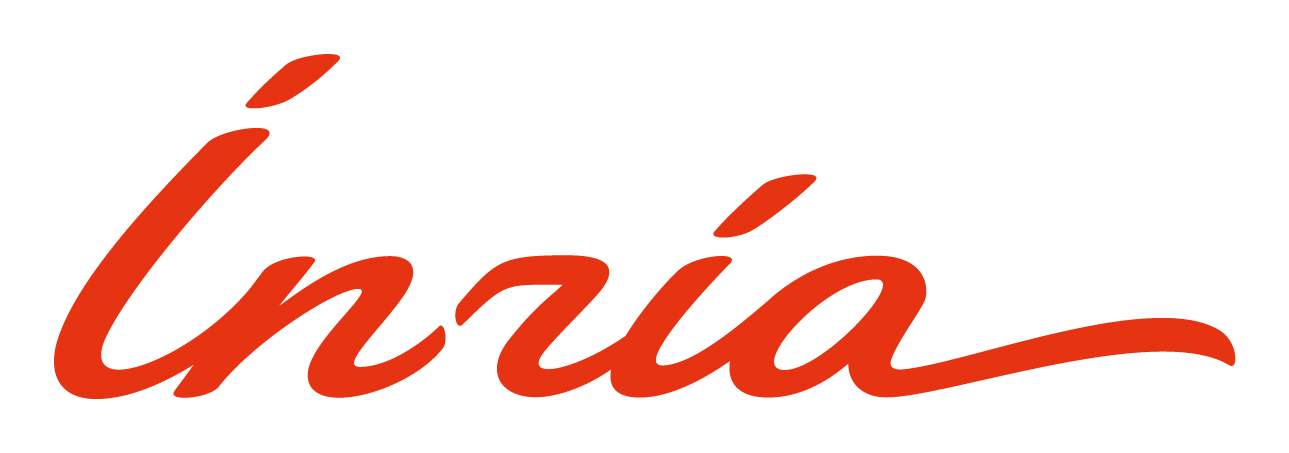
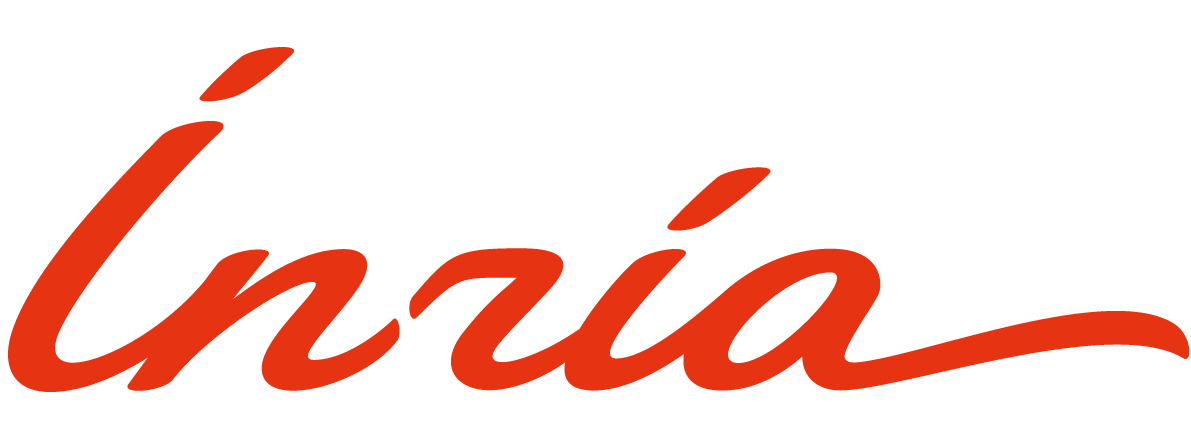
updates

diff --git a/experience.html b/experience.html
@@ -125,7 +125,7 @@
 					  <li class="list-group-item" style="text-align:left"> 
 					  	<div class="row">
 							<div class="4u 12u(mobile)">
-								<span class="image fit"><img src="imgs/inria.jpg" alt="Camilo Aguilar" style="margin-top:10px; margin-left:auto; margin-right:auto; max-height:120px; width:auto" /></span>
+								<span class="image fit"><img src="imgs/inria.jpg" alt="Camilo Aguilar" style="margin-top:10px; margin-left:auto; margin-right:auto; max-height:110px; width:auto" /></span>
 							</div>
 							<div class="8u 12u(mobile)">
 									<h3> <strong> Postdoc in Satellite Object Tracking </strong> </h3>
